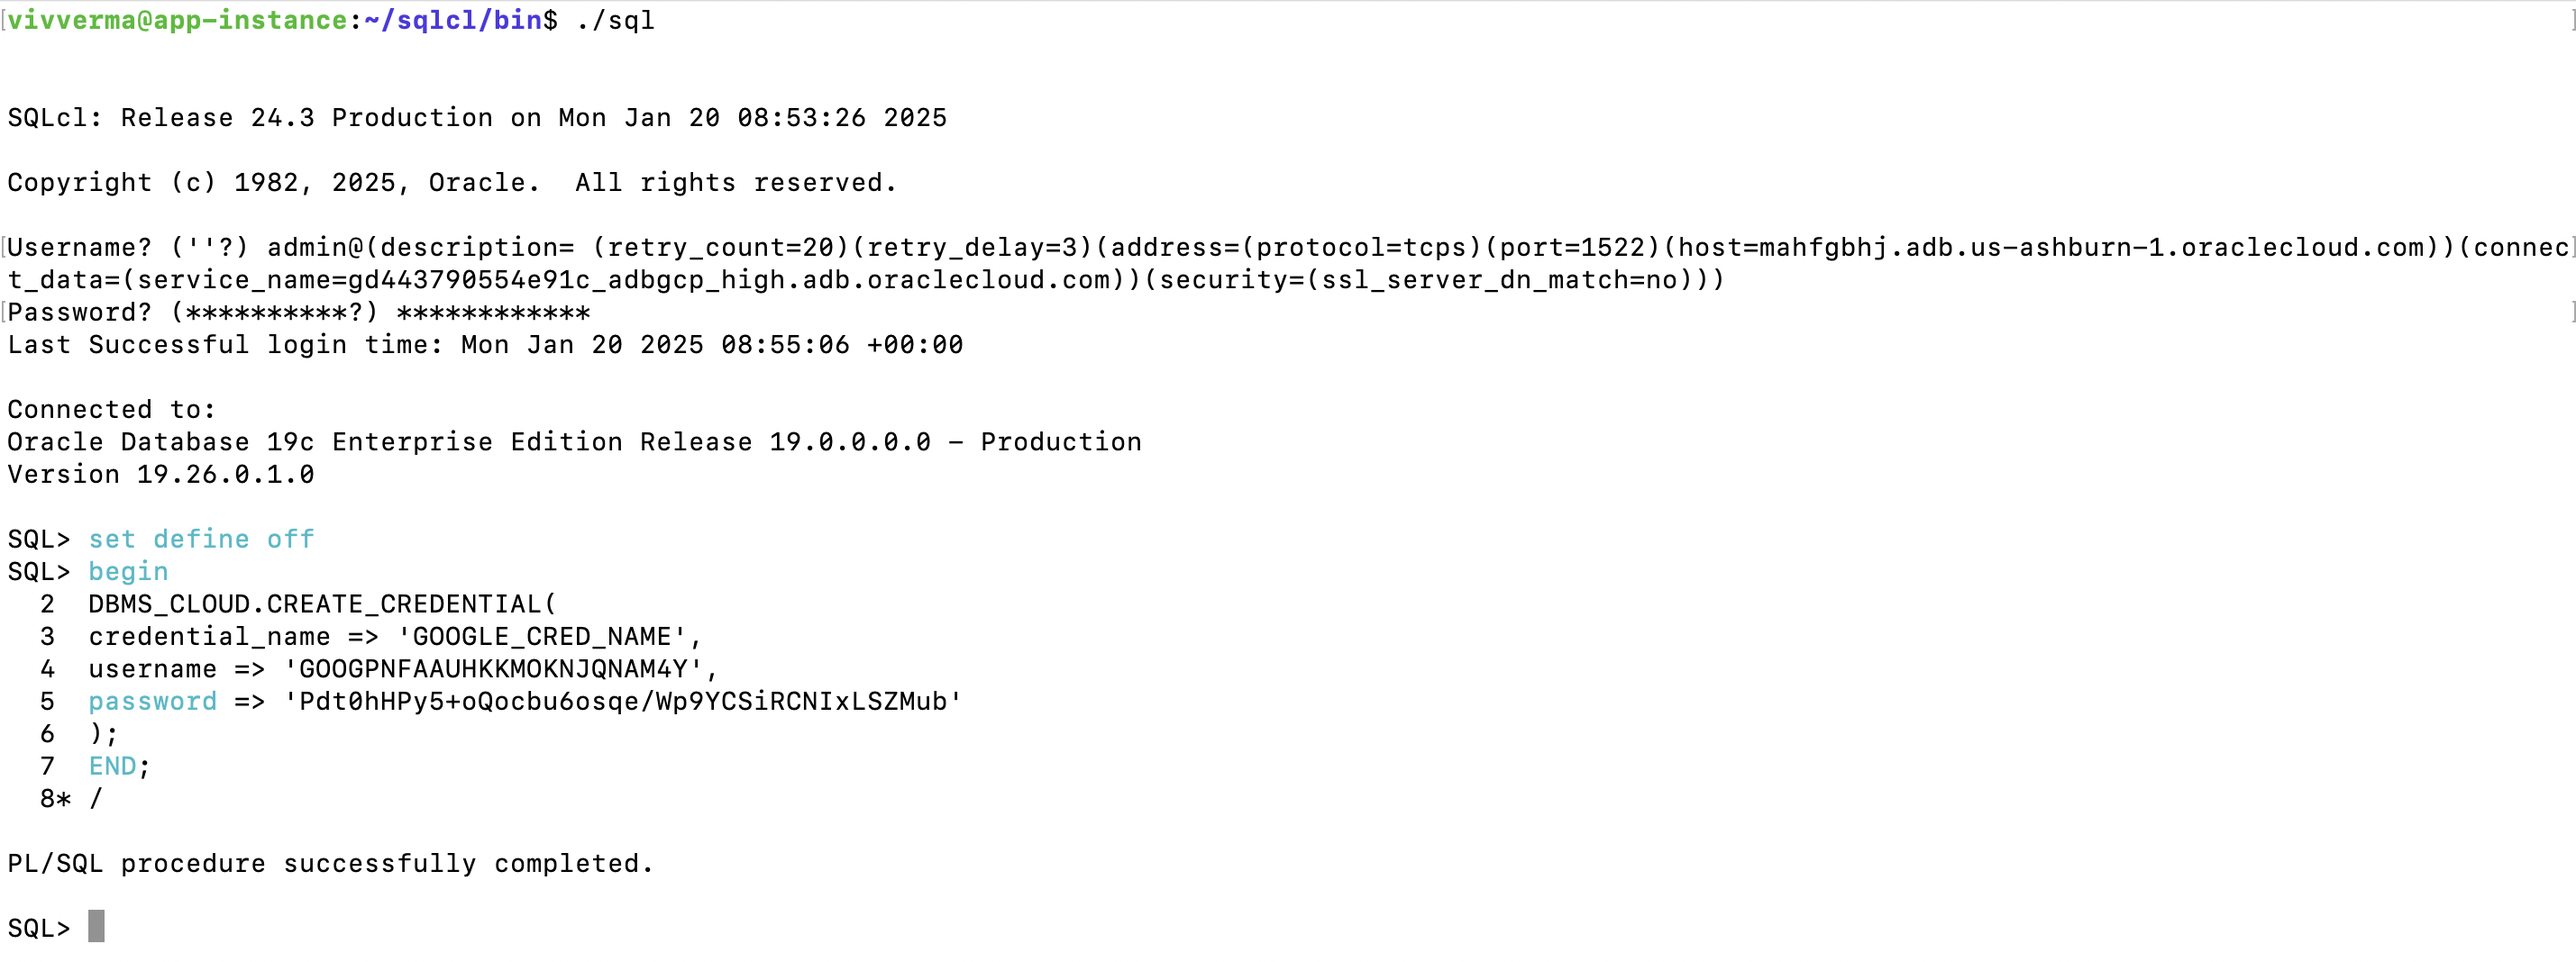
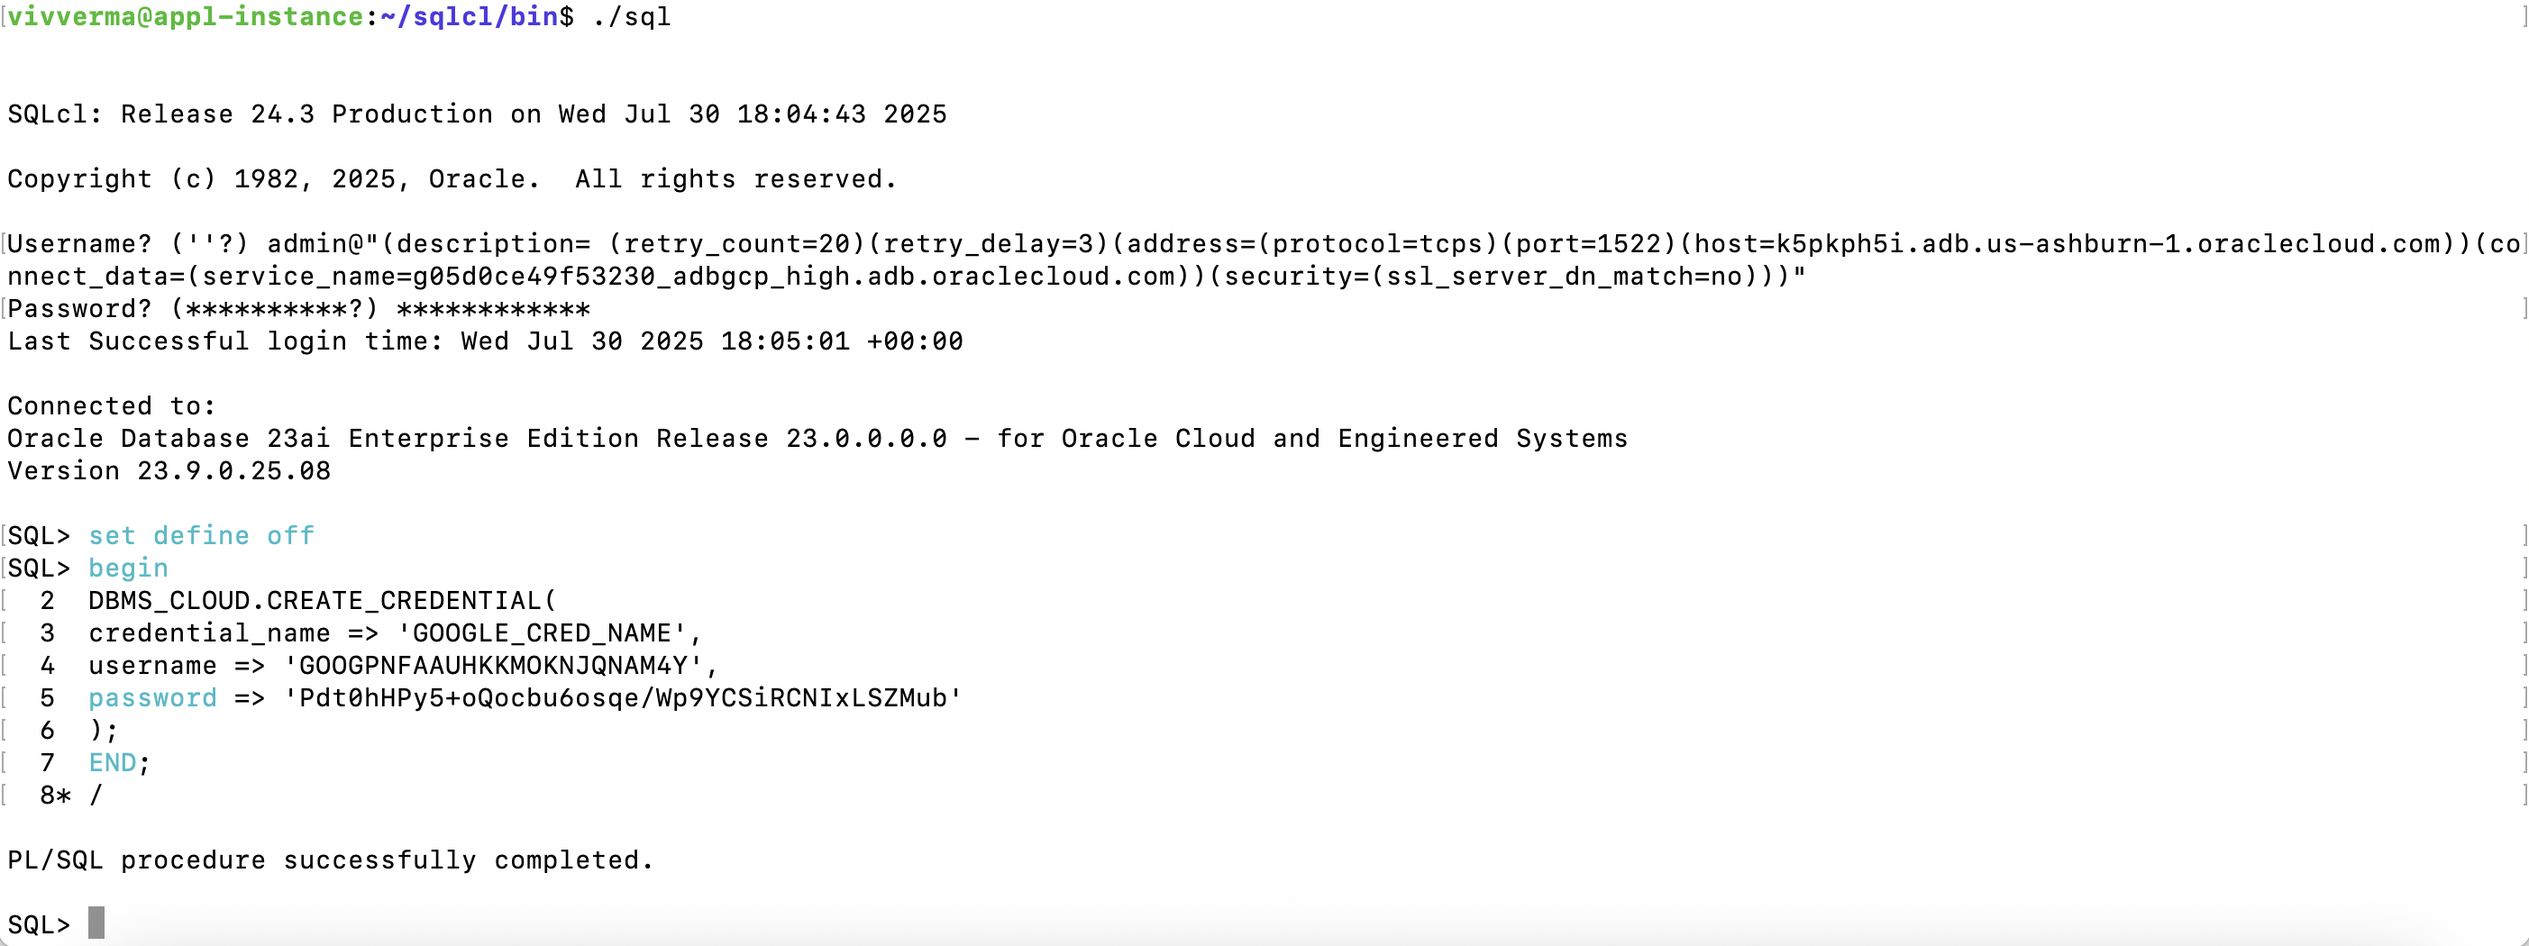
WMS ID#11823 - ADB@GCP - Get Started with Oracle Database@Google Cloud (#453)
* First draft

* First draft

* Update manifest.json

* Update intro.md

* Update manifest.json

* Update intro.md

* Update manifest.json

* First draft

* First draft

* First draft

* First draft

* First draft

* First draft

* First draft

* First draft

* First draft

* First draft

* First draft

* Initial Draft

* Initial draft

* Initial Draft

* Initial Draft

* Initial Draft

* Initial Draft

* Initial Draft

* ODBG Network

* Latest update

* Gemini Flash 2.5

* ODBG Network

* Update manifest.json

* Create adb-provisioning-databases-odbg.md

* Update adb-provisioning-databases.md

* Update adb-provisioning-databases.md

* Update adb-provisioning-databases.md

* Update connect-to-swingbech-app.md

* Update migrate-to-adb.md

* Update migrate-to-adb.md

* Update migrate-to-adb.md

* 23ai update

diff --git a/adb-gcp/database-actions/database-actions.md b/adb-gcp/database-actions/database-actions.md
@@ -1,23 +1,26 @@
 # Oracle Database Actions
 
 ## Introduction
+
 Database Actions brings you your favorite Oracle Database desktop tool’s features and experience to your browser! Delivered as a single-page web application, Database Actions is powered by Oracle REST Data Services (ORDS). Database Actions offers, a worksheet for running queries and scripts, the ability to manage and browse your data dictionary, a REST development environment for your REST APIs and AUTOREST enabled objects, an interface for Oracle’s JSON Document Store (SODA), a DBA console for managing the database, a data model reporting solution, and access to PerfHub.
 
-Database Actions provides a web-based interface with development, data tools, administration, monitoring, and download features for Autonomous Database. 
+Database Actions provides a web-based interface with development, data tools, administration, monitoring, and download features for Autonomous Database.
 
 The following table lists the main features of Database Actions.
 
-![Database actions features](./images/database-actions-features.png " ") 
+![Database actions features](./images/database-actions-features.png " ")
 
 Estimated Time: 15 minutes
 
 ### Objectives
 
 As a database admin or user:
+
 1. Provision a Windows Compute VM in Google Cloud.
 2. Access Database Actions under Autonomous Database.
 
 ### Required Artifacts
+
 - Access to a pre-provisioned Autonomous Database instance.
 
 ## Task 1: Provision Windows Compute VM instance in Google Cloud
@@ -32,20 +35,20 @@ As a database admin or user:
 
 3. Under **Machine configuration** enter the following -
 
-    * **Name** - windows-instance
-    * **Region** - us-east4
-    * Leave the rest as default.
+    - **Name** - windows-instance
+    - **Region** - us-east4
+    - Leave the rest as default.
 
     ![Compute VM](./images/compute-win-machine-config.png " ")
 
-5.  Click **OS and storage** on the left tab and click **Change** to change the Operating System to Windows. Under the drop down for **Operating system** select **Windows Server**. Leave others as default.
+4. Click **OS and storage** on the left tab and click **Change** to change the Operating System to Windows. Under the drop down for **Operating system** select **Windows Server**. Leave others as default.
 
     ![Compute VM](./images/os-win-machine-config.png " ")
 
-6.  Click **Networking** on the left tab and enter the following -
+5. Click **Networking** on the left tab and enter the following -
 
-    * **Allow HTTP traffic** - Checkmark
-    * **Allow HTTPS traffic** - Checkmark
+    - **Allow HTTP traffic** - Checkmark
+    - **Allow HTTPS traffic** - Checkmark
 
     ![Compute VM](./images/compute-vm-networking.png " ")
 
@@ -55,30 +58,30 @@ As a database admin or user:
 
     Enter the following under **Edit network interface**
 
-    * **Network** - app-network
-    * **Subnetwork** - public-subnet
+    - **Network** - app-network
+    - **Subnetwork** - public-subnet
 
     ![Compute VM](./images/compute-vm-network-config.png " ")
 
-7.  Click **Security** on the left tab and enter the following. Click **MANAGE ACCESS** and click **ADD ITEM** under **Add manually generated SSH keys**. Enter the public ssh key. Click **CREATE** to create the VM instance.
+6. Click **Security** on the left tab and enter the following. Click **MANAGE ACCESS** and click **ADD ITEM** under **Add manually generated SSH keys**. Enter the public ssh key. Click **CREATE** to create the VM instance.
 
     ![Compute VM](./images/compute-vm-ssh-create.png " ")
 
-8.	The created VM instance will show up on the **VM instances** page -
+7. The created VM instance will show up on the **VM instances** page -
 
     ![Compute VM](./images/compute-win-instance.png " ")
 
-9. Set the Windows VM login password by clicking on **Set Windows password**.
+8. Set the Windows VM login password by clicking on **Set Windows password**.
 
     ![Compute VM](./images/set-win-pass.png " ")
 
-10. RDP to the VM instance using the External IP address and login using the username and password set in above step.
+9. RDP to the VM instance using the External IP address and login using the username and password set in above step.
 
     We will use this Windows Compute VM to launch **Autonomos Database** - **Database Actions**.
 
 ## Task 2: Oracle Database Actions Overview
 
-You can access Database Actions from Autonomous Database. Database Actions provides development tools, data tools, administration, and monitoring features for Autonomous Database. Using Database Actions you can run SQL statements, queries, and scripts in a worksheet. 
+You can access Database Actions from Autonomous Database. Database Actions provides development tools, data tools, administration, and monitoring features for Autonomous Database. Using Database Actions you can run SQL statements, queries, and scripts in a worksheet.
 
 To launch Database Actions:
 
@@ -124,7 +127,7 @@ To launch Database Actions:
 
     The Data Studio comprises of the Data Load, the Data Analysis, the Data Insights, Catalog, Data Marketplace and the Data Share tool.
 
-    The Data Studio Tools enables you to load data from cloud and other diverse sources, analyzes it and gain insights from it. You can share the result of the analysis with other users. It is a one-stop application of your analytics tool from multiple data sources. This tool makes sure that there is seamless transition between different applications. The multiple ways of navigation do not impact the progress of your work. For instance, if you are working on data analysis and decide you need some additional data, you can navigate to the Data Load page, bring in the new contents, and return to your analysis in progress. 
+    The Data Studio Tools enables you to load data from cloud and other diverse sources, analyzes it and gain insights from it. You can share the result of the analysis with other users. It is a one-stop application of your analytics tool from multiple data sources. This tool makes sure that there is seamless transition between different applications. The multiple ways of navigation do not impact the progress of your work. For instance, if you are working on data analysis and decide you need some additional data, you can navigate to the Data Load page, bring in the new contents, and return to your analysis in progress.
 
 10. Click **Data Load** to go to the **Data Load** page which lists various options to load data into the Autonomous Database.
 
@@ -146,9 +149,9 @@ To launch Database Actions:
 
     From the **Downloads** page you can -
 
-    * Download Oracle Instant Client
-    * Download SODA Drivers
-    * Download Microsoft Excel/Google Sheets add-in
+    - Download Oracle Instant Client
+    - Download SODA Drivers
+    - Download Microsoft Excel/Google Sheets add-in
 
 14. Click **Database actions** to go back to the **Database actions** main page and click **Monitoring**.
 
@@ -167,7 +170,7 @@ To launch Database Actions:
     ![Table details](./images/related-services.png " ")
 
     SODA - Oracle REST Data Services (ORDS) provides HTTPS interfaces for working with the contents of your Oracle Database in one or more REST enabled schemas.
-    
+
     Oracle Machine Learning RESTful services -  Oracle Machine Learning provides REST APIs for OML4Py Embedded Python Execution and OML Services.
 
 17. Click **Open** and **Copy** the URL.
@@ -181,5 +184,6 @@ To launch Database Actions:
     Refer [Developing RESTful Services in Autonomous Database](https://docs.oracle.com/en/cloud/paas/autonomous-database/serverless/adbsb/ords-autonomous-database.html) for more details.
 
 ## Acknowledgements
+
 - **Authors/Contributors** - Vivek Verma, Master Principal Cloud Architect, North America Cloud Engineering
 - **Last Updated By/Date** - Vivek Verma, Jan 2025

diff --git a/adb-gcp/adb-provisioning-databases/adb-provisioning-databases.md b/adb-gcp/adb-provisioning-databases/adb-provisioning-databases.md
@@ -2,7 +2,7 @@
 
 ## Introduction
 
-This lab walks you through the steps to provision Autonomous Database. 
+This lab walks you through the steps to provision Autonomous Database.
 Estimated Time: 10 minutes
 
 ### Objectives
@@ -19,11 +19,11 @@ As a database user, DBA or application developer:
 
 In this section, you will be provisioning an Autonomous Database using the Google Cloud Console.
 
-1.	Login to Google Cloud Console (console.cloud.google.com) and search for **Oracle Database** in the **Search Bar** on the top of the page. Click on **Oracle Database@Google Cloud**.
+1. Login to Google Cloud Console (console.cloud.google.com) and search for **Oracle Database** in the **Search Bar** on the top of the page. Click on **Oracle Database@Google Cloud**.
 
     ![Search Bar](./images/adb-search.png " ")
 
--  Click **Autonomous Database** from the left menu.
+- Click **Autonomous Database** from the left menu.
 
     ![ADB Menu](./images/adb-menu.png " ")
 
@@ -31,13 +31,14 @@ In this section, you will be provisioning an Autonomous Database using the Googl
 
     ![Create ADB](./images/adb-create.png " ")
 
--  This will bring up the **Create an Autonomous Database** screen where you specify the configuration of the database.
+- This will bring up the **Create an Autonomous Database** screen where you specify the configuration of the database.
 
 - Enter the following for **Instance details**:
-    * **Instance ID** - adb-gcp
-    * **Database name** - adbgcp
-    * **Database display name** - Autonomous-Database-GCP
-    * **Region** - us-east4
+
+  - **Instance ID** - adb-gcp
+  - **Database name** - adbgcp
+  - **Database display name** - Autonomous-Database-GCP
+  - **Region** - us-east4
 
     ![ADB Instance Details](./images/adb-instance-details.png " ")
 
@@ -45,7 +46,7 @@ In this section, you will be provisioning an Autonomous Database using the Googl
 
     ![ADB Instance Details](./images/adb-workload.png " ")
 
-- Leave all defaults for **Database configuration**
+- Select **23ai** for **Choose database version** and leave the rest as defaults for **Database configuration**
 
     ![ADB Instance Details](./images/adb-database-config.png " ")
 

diff --git a/adb-gcp/migrate-to-adb/migrate-to-adb.md b/adb-gcp/migrate-to-adb/migrate-to-adb.md
@@ -93,7 +93,7 @@ You can download sqlcl from https://download.oracle.com/otn_software/java/sqldev
     ```
     <copy>
     cd sqlcl/bin 
-    ./sqlcl admin@"(description= (retry_count=20)(retry_delay=3)(address=(protocol=tcps)(port=1522)(host=mahfgbhj.adb.us-ashburn-1.oraclecloud.com))(connect_data=(service_name=gd443790554e91c_adbgcp_high.adb.oraclecloud.com))(security=(ssl_server_dn_match=no)))"
+    ./sql admin@"(description= (retry_count=20)(retry_delay=3)(address=(protocol=tcps)(port=1522)(host=mahfgbhj.adb.us-ashburn-1.oraclecloud.com))(connect_data=(service_name=gd443790554e91c_adbgcp_high.adb.oraclecloud.com))(security=(ssl_server_dn_match=no)))"
     </copy>
     ```
 
